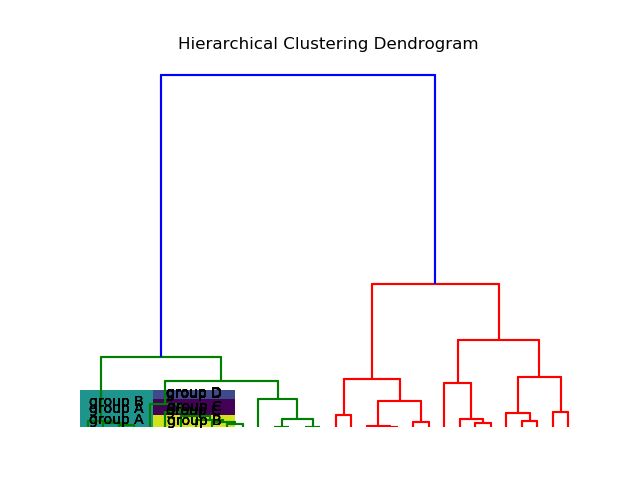
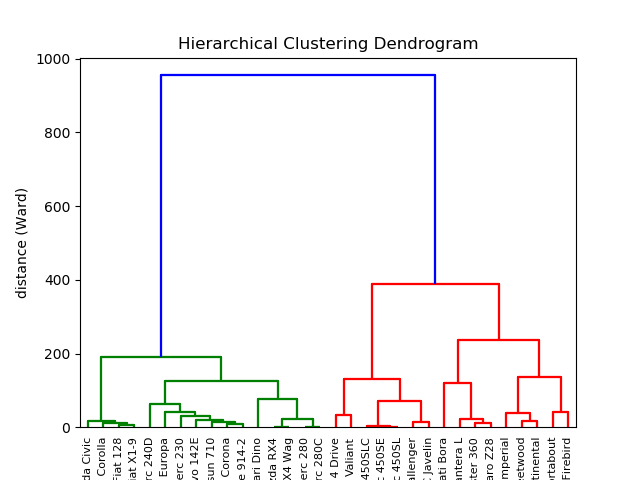
fixed the dendrogram issue

diff --git a/md/data_science.md b/md/data_science.md
@@ -1315,7 +1315,7 @@ display_inline('./images/treemap2.png')
 
 <https://python-graph-gallery.com/400-basic-dendrogram/>
 
-``` {.python .rundoc-block rundoc-language="python" rundoc-session="yes" rundoc-results="inline" rundoc-exports="both"}
+``` {.python .rundoc-block rundoc-language="python" rundoc-session="yes" rundoc-results="output" rundoc-exports="both"}
 
 # Libraries
 import pandas as pd
@@ -1347,9 +1347,8 @@ display_inline('./images/dendrogram.png')
 
 ```
 
-  -------- --- ----------------------------------------------------------------------------------------------------------------------------------------------------------------------------------------------------------------------------------------------------------------------------------------------------------------------------------------------------------------------------------------------------------------------------------------------------------------------------------------------------------------------------------------------------------------------------------------------------------------------------------------------------------------------------------------------------------------------------------------------------------------------------------------------------------------------------------------------------------- -------- --- ---------------------------------------------------------------------------------------------------------------------------------------------------------------------------------------------------------------------------------------------------------------------------------------------------------------------------------------------------------------------------------------------------------------------------------------------------------------------------------------------------------------------------------------------------------------------------------------------------------------------------------------------------------------------------------------------------------------------------------------------------------------------------------------------------------------------------------------------------------------------------------------------------------------------------------------------------------------------------------------------------------------------------------------------------------------------------------------------------------------------------------------------------------------------------------------------------------------------------------------------------------------------------------------------------------------------------------------------------------------------------------------------------------------------------------------------------------------------------------------------------------------------------------------------------------------------------------------------------------------------------------------------------------------------------------------------------------------------------------------------------------------------------------------------------------------------------------------------------------------------------------------------------------------------------------------------------------------- ----- --- -------------------------------------------------------------------------------------------------------------------------------------------------------------------------------------------------------------------------------------------------------------------------------------------------------------------------------------------------------------------------------------------------------------------------------- -------- --- ----------------------------------------------------------------------------------------- ------------- --- -----------------------------------------------------------------
-  icoord   :   ((25.0 25.0 35.0 35.0) (15.0 15.0 30.0 30.0) (5.0 5.0 22.5 22.5) (95.0 95.0 105.0 105.0) (85.0 85.0 100.0 100.0) (75.0 75.0 92.5 92.5) (65.0 65.0 83.75 83.75) (55.0 55.0 74.375 74.375) (45.0 45.0 64.6875 64.6875) (125.0 125.0 135.0 135.0) (145.0 145.0 155.0 155.0) (130.0 130.0 150.0 150.0) (115.0 115.0 140.0 140.0) (54.84375 54.84375 127.5 127.5) (13.75 13.75 91.171875 91.171875) (165.0 165.0 175.0 175.0) (195.0 195.0 205.0 205.0) (185.0 185.0 200.0 200.0) (215.0 215.0 225.0 225.0) (192.5 192.5 220.0 220.0) (170.0 170.0 206.25 206.25) (255.0 255.0 265.0 265.0) (245.0 245.0 260.0 260.0) (235.0 235.0 252.5 252.5) (285.0 285.0 295.0 295.0) (275.0 275.0 290.0 290.0) (305.0 305.0 315.0 315.0) (282.5 282.5 310.0 310.0) (243.75 243.75 296.25 296.25) (188.125 188.125 270.0 270.0) (52.4609375 52.4609375 229.0625 229.0625))   dcoord   :   ((0.0 5.147341546856977 5.147341546856977 0.0) (0.0 10.201299345344859 10.201299345344859 5.147341546856977) (0.0 16.89707975262787 16.89707975262787 10.201299345344859) (0.0 8.65359029536296 8.65359029536296 0.0) (0.0 14.21755048053871 14.21755048053871 8.65359029536296) (0.0 19.89440928586052 19.89440928586052 14.21755048053871) (0.0 30.38720376243924 30.38720376243924 19.89440928586052) (0.0 41.765577612830086 41.765577612830086 30.38720376243924) (0.0 62.39473420394506 62.39473420394506 41.765577612830086) (0.0 0.6153251173160401 0.6153251173160401 0.0) (0.0 1.5231546211727793 1.5231546211727793 0.0) (0.6153251173160401 21.8609037438986 21.8609037438986 1.5231546211727793) (0.0 77.831513556528 77.831513556528 21.8609037438986) (62.39473420394506 124.42513884575622 124.42513884575622 77.831513556528) (16.89707975262787 189.75327331432254 189.75327331432254 124.42513884575622) (0.0 33.55086921377745 33.55086921377745 0.0) (0.0 0.9826494797230624 0.9826494797230624 0.0) (0.0 1.9956285559525688 1.9956285559525688 0.9826494797230624) (0.0 14.015499455959462 14.015499455959462 0.0) (1.9956285559525688 71.69000545171319 71.69000545171319 14.015499455959462) (33.55086921377745 131.24667573749386 131.24667573749386 71.69000545171319) (0.0 10.07612028510974 10.07612028510974 0.0) (0.0 22.748314223256195 22.748314223256195 10.07612028510974) (0.0 121.19933374404333 121.19933374404333 22.748314223256195) (0.0 15.622444623041554 15.622444623041554 0.0) (0.0 38.206294228394704 38.206294228394704 15.622444623041554) (0.0 40.00524746830096 40.00524746830096 0.0) (38.206294228394704 136.59795344708988 136.59795344708988 40.00524746830096) (121.19933374404333 236.74277069464608 236.74277069464608 136.59795344708988) (131.24667573749386 389.04227922692326 389.04227922692326 236.74277069464608) (189.75327331432254 955.3712450494048 955.3712450494048 389.04227922692326))   ivl   :   (Honda Civic Toyota Corolla Fiat 128 Fiat X1-9 Merc 240D Lotus Europa Merc 230 Volvo 142E Datsun 710 Toyota Corona Porsche 914-2 Ferrari Dino Mazda RX4 Mazda RX4 Wag Merc 280 Merc 280C Hornet 4 Drive Valiant Merc 450SLC Merc 450SE Merc 450SL Dodge Challenger AMC Javelin Maserati Bora Ford Pantera L Duster 360 Camaro Z28 Chrysler Imperial Cadillac Fleetwood Lincoln Continental Hornet Sportabout Pontiac Firebird)   leaves   :   (18 19 17 25 7 27 8 31 2 20 26 29 0 1 9 10 3 5 13 11 12 21 22 30 28 6 23 16 14 15 4 24)   color~list~   :   (g g g g g g g g g g g g g g g r r r r r r r r r r r r r r r b)
-  -------- --- ----------------------------------------------------------------------------------------------------------------------------------------------------------------------------------------------------------------------------------------------------------------------------------------------------------------------------------------------------------------------------------------------------------------------------------------------------------------------------------------------------------------------------------------------------------------------------------------------------------------------------------------------------------------------------------------------------------------------------------------------------------------------------------------------------------------------------------------------------------- -------- --- ---------------------------------------------------------------------------------------------------------------------------------------------------------------------------------------------------------------------------------------------------------------------------------------------------------------------------------------------------------------------------------------------------------------------------------------------------------------------------------------------------------------------------------------------------------------------------------------------------------------------------------------------------------------------------------------------------------------------------------------------------------------------------------------------------------------------------------------------------------------------------------------------------------------------------------------------------------------------------------------------------------------------------------------------------------------------------------------------------------------------------------------------------------------------------------------------------------------------------------------------------------------------------------------------------------------------------------------------------------------------------------------------------------------------------------------------------------------------------------------------------------------------------------------------------------------------------------------------------------------------------------------------------------------------------------------------------------------------------------------------------------------------------------------------------------------------------------------------------------------------------------------------------------------------------------------------------------------- ----- --- -------------------------------------------------------------------------------------------------------------------------------------------------------------------------------------------------------------------------------------------------------------------------------------------------------------------------------------------------------------------------------------------------------------------------------- -------- --- ----------------------------------------------------------------------------------------- ------------- --- -----------------------------------------------------------------
+![alt ./images/dendrogram.png](./images/dendrogram.png)
+```
 
 ### Scatterplot(bi)
 
